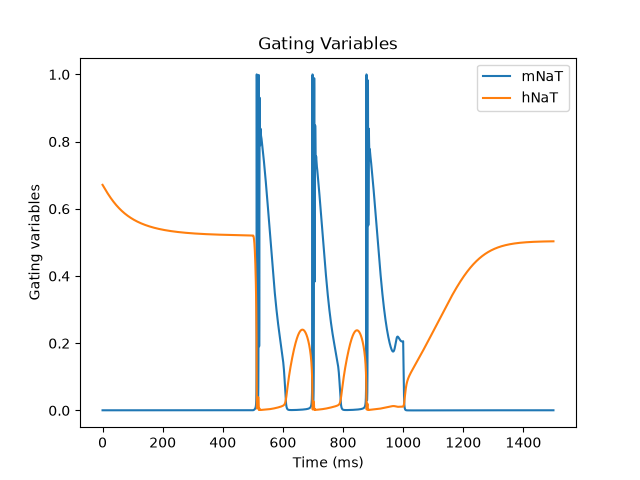
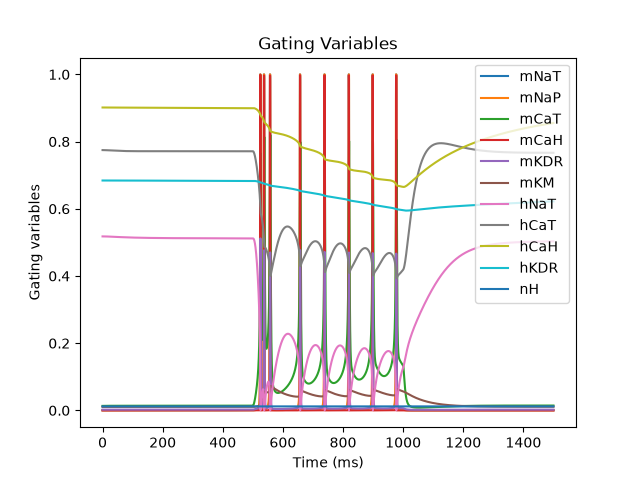
Unverbose

Changed region(s): [[0.1562, 0.125, 0.9062, 0.875], [0.75, 0.5938, 0.7812, 0.625]]

diff --git a/ExperimentManager.py b/ExperimentManager.py
@@ -56,13 +56,13 @@ class ExperimentManager:
                 # current = WhiteNoise(0, 1000)
                 # self.neuron.runModel(self.I_hold, current, True, False, False, True, True)
                 current = WhiteNoise(0, 500)
-                self.neuron.runModel(self.I_hold, current, True, False, True, True, True)
+                self.neuron.runModel(self.I_hold, current, True, False, True, True, False)
                 # current = WhiteNoise(0, 500)
                 # self.neuron.runModel(self.I_hold, current, True, False, True, True, True)
                 current = WhiteNoise(self.peakCurrent, 500)
-                self.neuron.runModel(self.I_hold, current, True, False, True, True, True)
+                self.neuron.runModel(self.I_hold, current, True, False, True, True, False)
                 current = WhiteNoise(0, 500)
-                self.neuron.runModel(self.I_hold, current, True, False, True, True, True)
+                self.neuron.runModel(self.I_hold, current, True, False, True, True, False)
                 self.plotingSuite("Step Current " + str(self.peakCurrent * 100) + "pA for 500mS")
             case "Constant":
                 print("Running Constant Current Experiment")
@@ -129,10 +129,10 @@ class ExperimentManager:
         self.neuron.plotChannelTimeSeries(self.saveLocation, self.getPlotNumber())
         print("Printing channel current time series")
         self.neuron.plotChannelCurrentsTimeSeries(self.saveLocation, self.getPlotNumber())
-        print("Printing calcium concentration time series")
-        self.neuron.plotCalciumConcentration(self.saveLocation, self.getPlotNumber())
-        print("Printing combined calcium current time series")
-        self.neuron.plotCalciumCurrent(self.saveLocation, self.getPlotNumber())
+        # print("Printing calcium concentration time series")
+        # self.neuron.plotCalciumConcentration(self.saveLocation, self.getPlotNumber())
+        # print("Printing combined calcium current time series")
+        # self.neuron.plotCalciumCurrent(self.saveLocation, self.getPlotNumber())
 
     def getPlotNumber(self):
         return self.experimentsRun + 1

diff --git a/HodgkinHuxley.py b/HodgkinHuxley.py
@@ -347,17 +347,6 @@ class HogdkinHuxley:
             self.t_Ca = np.append(self.t_Ca, small_t_Ca)
             self.t_I_app = np.append(self.t_I_app, small_t_I_app)
 
-            idx = np.argmax(self.t_V)
-
-            print("V      =", self.t_V[idx])
-            print("NaT    =", self.t_I_NaT[idx])
-            print("NaP    =", self.t_I_NaP[idx])
-            print("CaT    =", self.t_I_CaT[idx])
-            print("CaH    =", self.t_I_CaH[idx])
-            print("KDR    =", self.t_I_KDR[idx])
-            print("KM     =", self.t_I_KM[idx])
-            print("Leak   =", self.t_I_L[idx])
-
         #Update starting condition
         if updateStart:
             if verbose:
@@ -378,7 +367,7 @@ class HogdkinHuxley:
         return z
 
     def plotVoltageTimeSeries(self, saveLocation, saveNumber, save = True, show = True, additionalText=""):
-        plt.plot(self.t_eval, self.t_V)
+        plt.plot(self.final_t_eval, self.t_V)
         plt.xlabel("Time (ms)")
         plt.ylabel("mV")
         # plt.ylim([-0.08, 0.08])
@@ -414,11 +403,8 @@ class HogdkinHuxley:
         plt.ylabel("Gating variables")
         plt.title("Gating Variables")
         plt.legend(loc="upper right")
-        # plt.savefig(saveLocation + str(saveNumber) + ".4.Gating Variable Timeseries" + ".png")
+        plt.savefig(saveLocation + str(saveNumber) + ".4.Gating Variable Timeseries" + ".png")
         plt.show()
-        print(np.min(self.t_h_KDR))
-        print(np.min(self.t_m_KDR))
-        print(np.min(self.t_m_KM))
 
     def plotChannelTimeSeriesVoltage(self):
         plt.scatter(self.t_V, self.t_m_NaT, label="mNaT")
@@ -490,7 +476,7 @@ class HogdkinHuxley:
         plt.plot(self.final_t_eval, self.t_I_KDR, label="KDR")
         plt.plot(self.final_t_eval, self.t_I_KM, label="KM")
         plt.plot(self.final_t_eval, self.t_I_L, label="L")
-        # plt.plot(self.final_t_eval, self.t_I_H, label="H")
+        plt.plot(self.final_t_eval, self.t_I_H, label="H")
         # plt.plot(self.final_t_eval, self.t_I_SK, label="SK")
         plt.xlabel("Time (ms)")
         plt.ylabel("Current (nA/cm^2)")

diff --git a/main.py b/main.py
@@ -11,11 +11,11 @@ from ExperimentManager import ExperimentManager
 
 if __name__ == '__main__':
 #Paper from https://research-information.bris.ac.uk/ws/portalfiles/portal/3018849/pyr_neur_model_preprint.pdf
-    CoolExperiment = ExperimentManager(3)
+    CoolExperiment = ExperimentManager(1)
     # CoolExperiment.run("Optimize")
-    CoolExperiment.run("Constant")
+    # CoolExperiment.run("Constant")
     # CoolExperiment.run("Restart")
-    # CoolExperiment.run("Step")
+    CoolExperiment.run("Step")
     # CoolExperiment.run("Restart")
     # CoolExperiment.run("Chirp")
     # CoolExperiment.run("PermutationTesting2")

diff --git a/utils.py b/utils.py
@@ -22,9 +22,6 @@ def model(t, y0, I_hold, g_NaT, g_NaP, g_CaT, g_CaH, g_KDR, g_KM, g_L, g_H, p, V
     V0 = y0[10]
     Ca_c = y0[11]
 
-    if V0 > 40:
-        print("AP!")
-
     # Non derivative gating functions
     m_NaT = boltzmann(V0, Vm_NaT, km_NaT)
     m_NaP = boltzmann(V0, Vm_NaP, km_NaP)
